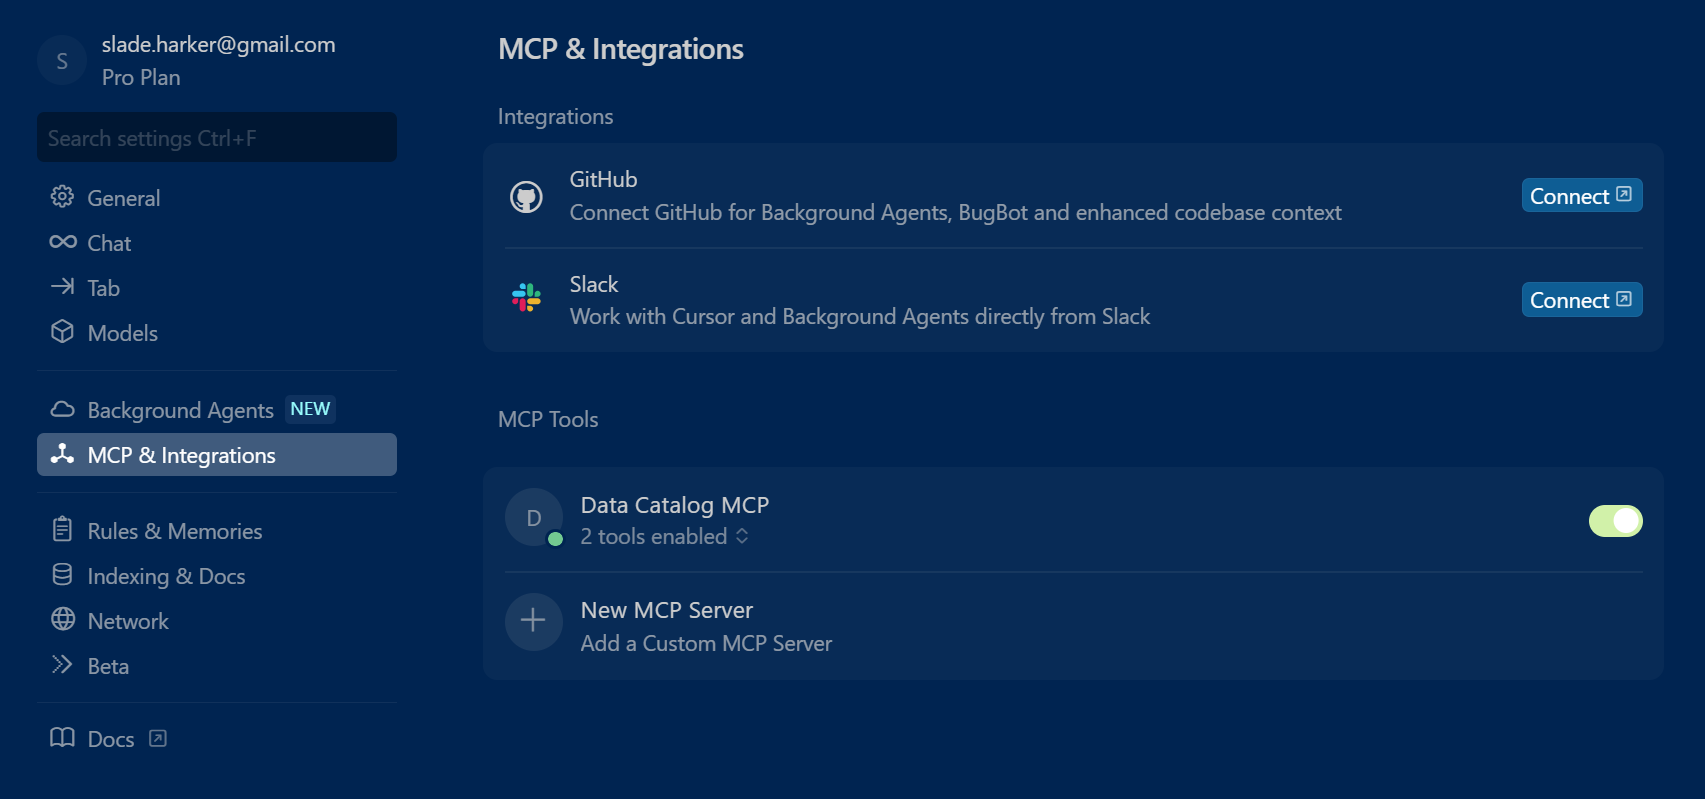
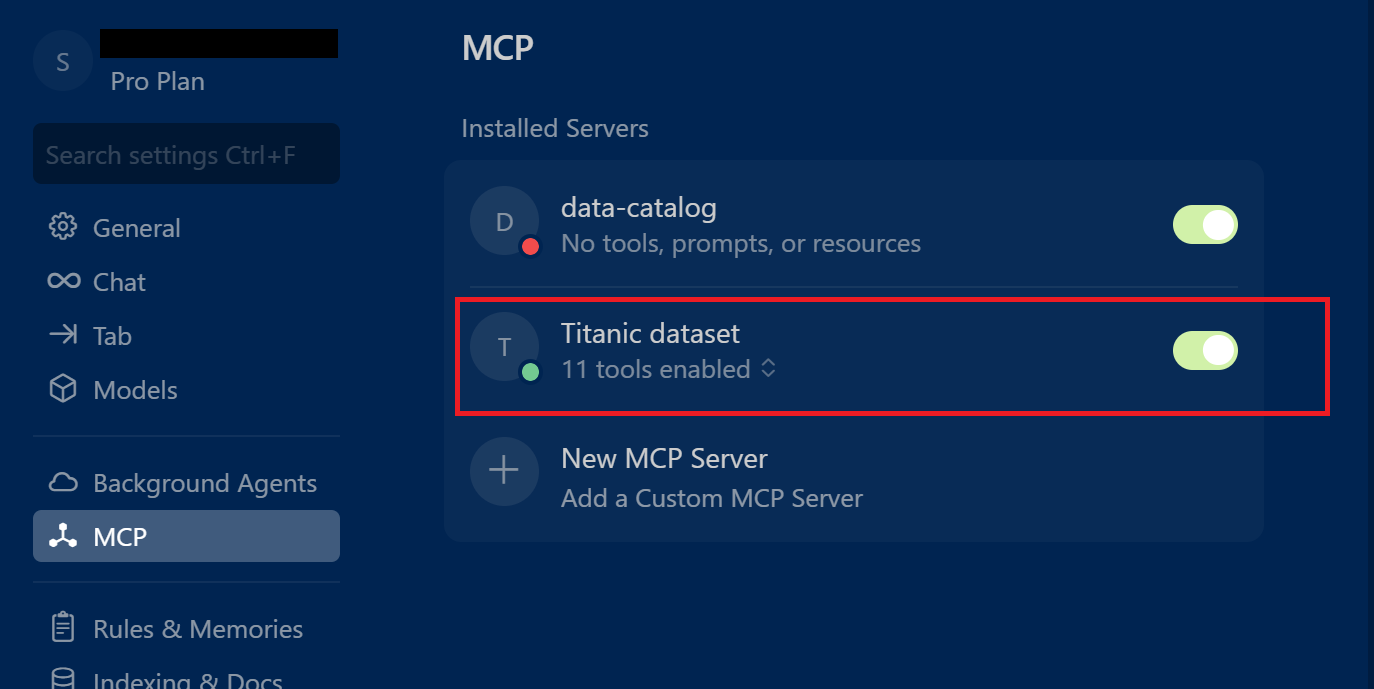
working version 1

diff --git a/db.py b/db.py
@@ -1,0 +1,187 @@
+import os
+import re
+import sqlite3
+from contextlib import contextmanager
+from typing import Any, Dict, List, Optional
+
+import pandas as pd
+
+DB_PATH = os.environ.get("DB_PATH", "shared_data/titanic.db")
+ALLOWED_TABLES = {"passengers"}
+
+
+@contextmanager
+def get_conn():
+    dirpath = os.path.dirname(DB_PATH)
+    if dirpath:
+        os.makedirs(dirpath, exist_ok=True)
+    conn = sqlite3.connect(DB_PATH, check_same_thread=False)
+    conn.row_factory = sqlite3.Row
+    try:
+        yield conn
+    finally:
+        conn.close()
+
+
+def init_titanic_db(force: bool = False) -> Dict[str, Any]:
+    url = "https://raw.githubusercontent.com/datasciencedojo/datasets/master/titanic.csv"
+    with get_conn() as conn:
+        cur = conn.cursor()
+        if force:
+            cur.execute("DROP TABLE IF EXISTS passengers")
+            conn.commit()
+        # If already exists, skip reload
+        cur.execute("SELECT name FROM sqlite_master WHERE type='table' AND name='passengers'")
+        if cur.fetchone():
+            return {"status": "exists", "db_path": DB_PATH}
+
+        df = pd.read_csv(url)
+        # Normalize column names (strip spaces)
+        df.columns = [c.strip() for c in df.columns]
+        # Persist
+        df.to_sql("passengers", conn, index=False)
+        # Helpful indexes
+        cur.execute("CREATE INDEX IF NOT EXISTS idx_passengers_survived ON passengers(Survived)")
+        cur.execute("CREATE INDEX IF NOT EXISTS idx_passengers_pclass ON passengers(Pclass)")
+        cur.execute("CREATE INDEX IF NOT EXISTS idx_passengers_sex ON passengers(Sex)")
+        cur.execute("CREATE INDEX IF NOT EXISTS idx_passengers_embarked ON passengers(Embarked)")
+        conn.commit()
+        return {"status": "initialized", "rows": int(len(df)), "db_path": DB_PATH}
+
+
+def list_tables() -> List[str]:
+    with get_conn() as conn:
+        cur = conn.cursor()
+        cur.execute("SELECT name FROM sqlite_master WHERE type='table' ORDER BY name")
+        return [r[0] for r in cur.fetchall()]
+
+
+def describe_table(table: str) -> Dict[str, Any]:
+    if table not in ALLOWED_TABLES:
+        return {"error": f"table '{table}' not allowed"}
+    with get_conn() as conn:
+        cur = conn.cursor()
+        # Check if the table exists first
+        cur.execute("SELECT name FROM sqlite_master WHERE type='table' AND name=?", (table,))
+        if not cur.fetchone():
+            return {"table": table, "exists": False, "columns": [], "rows": 0}
+        cur.execute(f"PRAGMA table_info({table})")
+        cols = [{"cid": r[0], "name": r[1], "type": r[2], "notnull": r[3], "default": r[4], "pk": r[5]} for r in cur.fetchall()]
+        cur.execute(f"SELECT COUNT(1) FROM {table}")
+        n = cur.fetchone()[0]
+        return {"table": table, "exists": True, "columns": cols, "rows": int(n)}
+
+
+def sample_rows(table: str, limit: int = 5) -> Dict[str, Any]:
+    if table not in ALLOWED_TABLES:
+        return {"error": f"table '{table}' not allowed"}
+    limit = max(1, min(int(limit), 100))
+    with get_conn() as conn:
+        df = pd.read_sql_query(f"SELECT * FROM {table} LIMIT {limit}", conn)
+        return {"table": table, "limit": limit, "rows": df.to_dict(orient="records")}
+
+
+_SQL_BLOCKLIST = re.compile(r";|--|/\*|\bpragma\b|\battach\b|\bvacuum\b|\binsert\b|\bupdate\b|\bdelete\b|\bdrop\b|\balter\b", re.I)
+
+
+def _sql_is_safe(sql: str) -> bool:
+    if _SQL_BLOCKLIST.search(sql or ""):
+        return False
+    s = (sql or "").strip().lower()
+    if not s.startswith("select"):
+        return False
+    # crude table whitelist
+    if any(t in s for t in (" from ", " join ")):
+        # require 'passengers' when selecting from tables
+        if "passengers" not in s:
+            return False
+    return True
+
+
+def run_sql(sql: str, limit: int = 500) -> Dict[str, Any]:
+    if not _sql_is_safe(sql):
+        return {"error": "Only single-statement SELECTs on allowed tables are permitted."}
+    limit = max(1, min(int(limit), 5000))
+    sql_limited = f"SELECT * FROM ({sql}) AS sub LIMIT {limit}"
+    with get_conn() as conn:
+        df = pd.read_sql_query(sql_limited, conn)
+        return {
+            "columns": list(df.columns),
+            "row_count": int(len(df)),
+            "rows": df.to_dict(orient="records"),
+        }
+
+
+def value_counts(table: str, column: str, limit: int = 50) -> Dict[str, Any]:
+    if table not in ALLOWED_TABLES:
+        return {"error": f"table '{table}' not allowed"}
+    col = re.sub(r"[^A-Za-z0-9_]", "", column)
+    limit = max(1, min(int(limit), 1000))
+    q = f"""
+      SELECT {col} AS value, COUNT(*) AS cnt
+      FROM {table}
+      GROUP BY {col}
+      ORDER BY cnt DESC
+      LIMIT {limit}
+    """
+    with get_conn() as conn:
+        df = pd.read_sql_query(q, conn)
+        return {"table": table, "column": col, "rows": df.to_dict(orient="records")}
+
+
+def summary_stats(table: str, columns: Optional[List[str]] = None) -> Dict[str, Any]:
+    if table not in ALLOWED_TABLES:
+        return {"error": f"table '{table}' not allowed"}
+    with get_conn() as conn:
+        df = pd.read_sql_query(f"SELECT * FROM {table}", conn)
+    if columns:
+        cols = [c for c in columns if c in df.columns]
+        if not cols:
+            return {"error": "no specified columns found"}
+        df = df[cols]
+    desc = df.describe(include="all", datetime_is_numeric=True).transpose().reset_index(names="column")
+    return {"rows": desc.to_dict(orient="records")}
+
+
+def survival_rate_by(column: str) -> Dict[str, Any]:
+    col = re.sub(r"[^A-Za-z0-9_]", "", column)
+    with get_conn() as conn:
+        df = pd.read_sql_query("SELECT Survived, {} AS grp FROM passengers".format(col), conn)
+    if "Survived" not in df.columns or "grp" not in df.columns:
+        return {"error": "invalid column"}
+    rates = (
+        df.dropna(subset=["grp"])\
+          .groupby("grp")["Survived"]
+          .mean()
+          .reset_index(name="survival_rate")
+          .sort_values("survival_rate", ascending=False)
+    )
+    return {"by": col, "rows": rates.to_dict(orient="records")}
+
+
+def load_local_csv(csv_path: str, force: bool = False) -> Dict[str, Any]:
+    """
+    Load a local CSV file into the SQLite database as the 'passengers' table.
+    - csv_path: path to the Titanic CSV on disk (relative or absolute)
+    - force: if True, replace any existing 'passengers' table
+    """
+    if not os.path.exists(csv_path):
+        return {"error": f"file not found: {csv_path}"}
+    with get_conn() as conn:
+        cur = conn.cursor()
+        if force:
+            cur.execute("DROP TABLE IF EXISTS passengers")
+            conn.commit()
+        # If already exists and not forcing, skip reload
+        cur.execute("SELECT name FROM sqlite_master WHERE type='table' AND name='passengers'")
+        if cur.fetchone() and not force:
+            return {"status": "exists", "db_path": DB_PATH}
+        df = pd.read_csv(csv_path)
+        df.columns = [c.strip() for c in df.columns]
+        df.to_sql("passengers", conn, index=False, if_exists="replace")
+        cur.execute("CREATE INDEX IF NOT EXISTS idx_passengers_survived ON passengers(Survived)")
+        cur.execute("CREATE INDEX IF NOT EXISTS idx_passengers_pclass ON passengers(Pclass)")
+        cur.execute("CREATE INDEX IF NOT EXISTS idx_passengers_sex ON passengers(Sex)")
+        cur.execute("CREATE INDEX IF NOT EXISTS idx_passengers_embarked ON passengers(Embarked)")
+        conn.commit()
+        return {"status": "loaded", "rows": int(len(df)), "db_path": DB_PATH}

diff --git a/app.py b/app.py
@@ -3,37 +3,89 @@ import pandas as pd
 from dotenv import load_dotenv
 from logging_config import StreamingSafeRequestLoggingMiddleware, log_tool
 from auth import TokenAuthMiddleware
+from db import (
+    init_titanic_db as _init_titanic_db,
+    list_tables as _list_tables,
+    describe_table as _describe_table,
+    sample_rows as _sample_rows,
+    run_sql as _run_sql,
+    value_counts as _value_counts,
+    summary_stats as _summary_stats,
+    survival_rate_by as _survival_rate_by,
+    load_local_csv as _load_local_csv,
+)
 
 # Load environment variables from a .env file if present
 load_dotenv()
 
 mcp = FastMCP(
-    name="Data Catalog MCP",
-    instructions="MCP server exposing information about the data catalog"
+    name="Titanic Dataset MCP",
+    instructions="MCP server exposing tools for exploring the Titanic dataset"
 )
 
-
-
-@mcp.tool
-@log_tool
-def add(a: int, b: int) -> dict:
-    """Add two numbers and return the sum as {\"sum\": int}."""
-    return {"sum": int(pd.DataFrame({"a": [a], "b": [b]}).eval("a+b").iloc[0])}
-
+# === Titanic dataset tools ===
 
 @mcp.tool
 @log_tool
-def get_event_descriptions() -> dict:
+def init_titanic_db(force: bool = False) -> dict:
     """
-    Return a mapping of all event names and their descriptions from the data catalog.
-    The key is the event name, the value is the description.
+    Download and load the Titanic dataset into SQLite at DB_PATH (env, default shared_data/titanic.db).
     """
-    event_descriptions = {
-        "open_seasame": "Send when a user opens the xyz component",
-        "show_more": "Event fired then user clicks on the show me more button",
-        "see_more": "This event tracks when a users clicks a pagination link to view another set of results"
-    }
-    return event_descriptions
+    return _init_titanic_db(force=force)
+
+@mcp.tool
+@log_tool
+def list_tables() -> dict:
+    """List available tables."""
+    return {"tables": _list_tables()}
+
+@mcp.tool
+@log_tool
+def describe_table(table: str) -> dict:
+    """Describe columns and row count for a table."""
+    return _describe_table(table)
+
+@mcp.tool
+@log_tool
+def sample_rows(table: str, limit: int = 5) -> dict:
+    """Return a small sample of rows."""
+    return _sample_rows(table, limit)
+
+@mcp.tool
+@log_tool
+def value_counts(table: str, column: str, limit: int = 50) -> dict:
+    """Top values and counts for a categorical column."""
+    return _value_counts(table, column, limit)
+
+@mcp.tool
+@log_tool
+def summary_stats(table: str, columns: list[str] | None = None) -> dict:
+    """Summary statistics for numeric columns or a subset."""
+    return _summary_stats(table, columns)
+
+@mcp.tool
+@log_tool
+def survival_rate_by(column: str) -> dict:
+    """Survival rate grouped by a column (e.g., Sex, Pclass, Embarked)."""
+    return _survival_rate_by(column)
+
+@mcp.tool
+@log_tool
+def run_sql(sql: str, limit: int = 500) -> dict:
+    """
+    Run a guarded SELECT query (single statement) with a row limit.
+    Only allowed on whitelisted tables.
+    """
+    return _run_sql(sql, limit)
+
+@mcp.tool
+@log_tool
+def load_titanic_from_csv(csv_path: str, force: bool = False) -> dict:
+    """
+    Load Titanic data from a local CSV file into the SQLite database.
+    csv_path can be relative to the project root or absolute.
+    """
+    return _load_local_csv(csv_path, force)
 
 app = mcp.http_app(path="/mcp")
 app.add_middleware(StreamingSafeRequestLoggingMiddleware)

diff --git a/README.md b/README.md
@@ -1,7 +1,10 @@
 # Titanic MCP
-Simple MCP server exploring using an MCP to provide tools to explore the titanic dataset.
+Simple MCP server exploring using an MCP to provide tools to explore the titanic dataset. Built in Python, implements FastMCP (v2), and runs on Docker.
 
-Implements FastMCP and running on Docker.
+<img src="images/example_output.png" alt="Example output" width="350">
+
+---
+Windows install instructions:
 
 ## 1. Install linux, wsl2, and docker desktop
 
@@ -11,7 +14,20 @@ https://liquid-interactive.atlassian.net/wiki/spaces/MAC/pages/4075618546/Local+
 Also install Python 12 (12.0 or greater) if not already on your system
 https://www.python.org/downloads/release/python-3120/
 
-## 2. Build image and load into docker
+## 2. Build the uv project
+
+Install uv if not already installed
+```
+pip install uv
+```
+
+Now build the project.  On the command line in the base directory of the solution
+```
+uv sync
+```
+
+
+## 3. Build image and load into docker
 
 In the directory of the solution on you machine run the following commands:
 ```
@@ -19,8 +35,8 @@ docker compose build --no-cache server
 docker compose up -d
 ```
 
-## 3. Update Claude desktop
-### 3.1 Setup MCP config
+## 4. Update Claude desktop
+### 4.1 Setup MCP config
 In Claude Desktop click File -> Settings, then select Developer
 Click on Edit Config button
 Put in the following config
@@ -46,7 +62,7 @@ Put in the following config
 
 ```
 
-### 3.2 Using a token (optional but recommended)
+### 4.2 Using a token (optional but recommended)
 If you set `AUTH_TOKEN` in `.env`, append it to the MCP URL as a query param:
 
 ```json
@@ -69,7 +85,7 @@ If you set `AUTH_TOKEN` in `.env`, append it to the MCP URL as a query param:
 }
 ```
 
-### 3.3 Close Claude and the background process.
+### 4.3 Close Claude and the background process.
 
 <img src="images/claude_3.png" alt="Claude MCP Setup 3" width="150">
 
@@ -78,12 +94,9 @@ If you set `AUTH_TOKEN` in `.env`, append it to the MCP URL as a query param:
 <img src="images/claude_2.png" alt="Claude MCP Setup 2" width="300">
 
 
-The model should be able to call it to complete requests
+The model should now be able to connect to the MCP server.
 
-<img src="images/claude_1.png" alt="Claude MCP Setup 1" width="500">
-
-
-## 4. In Cursor
+## 5. In Cursor
 
 Go to Cursor Settings -> MCP & Integrations, under MCP Tools add a new MCP Server.
 
